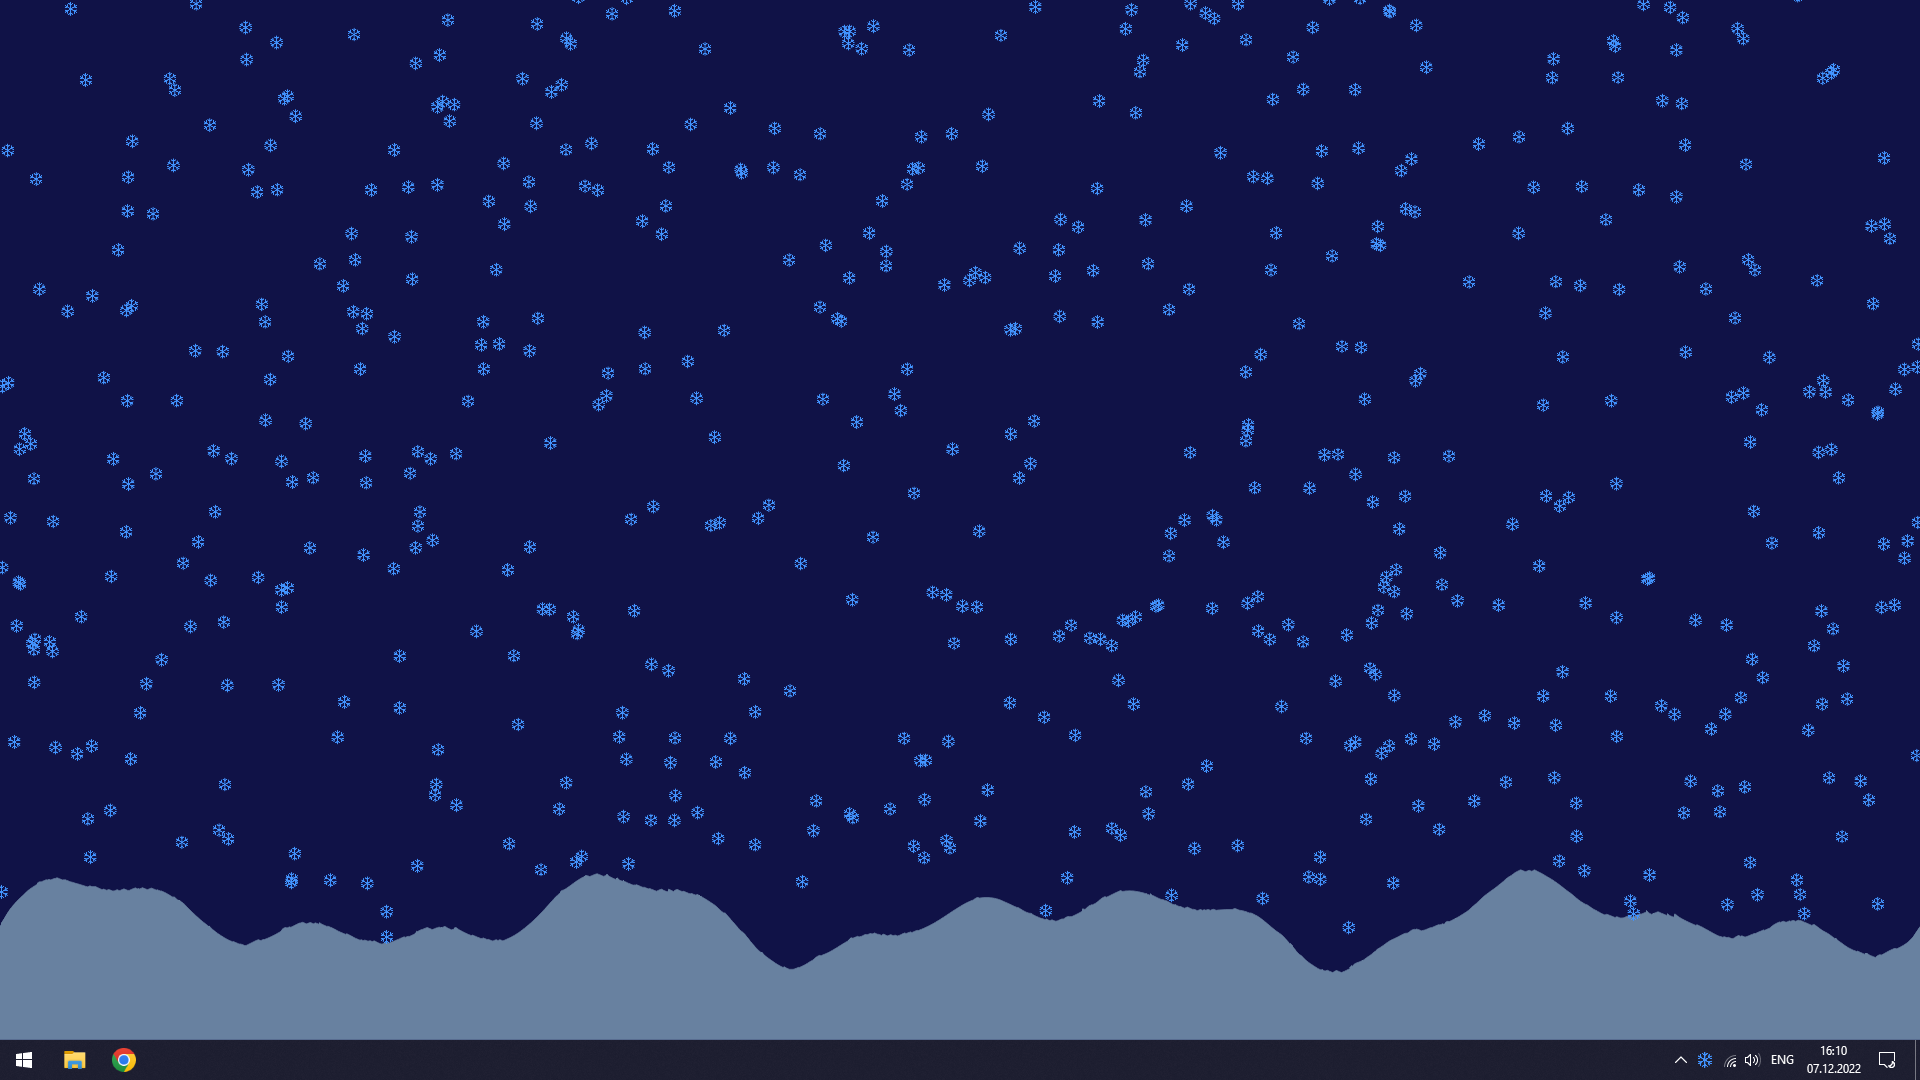
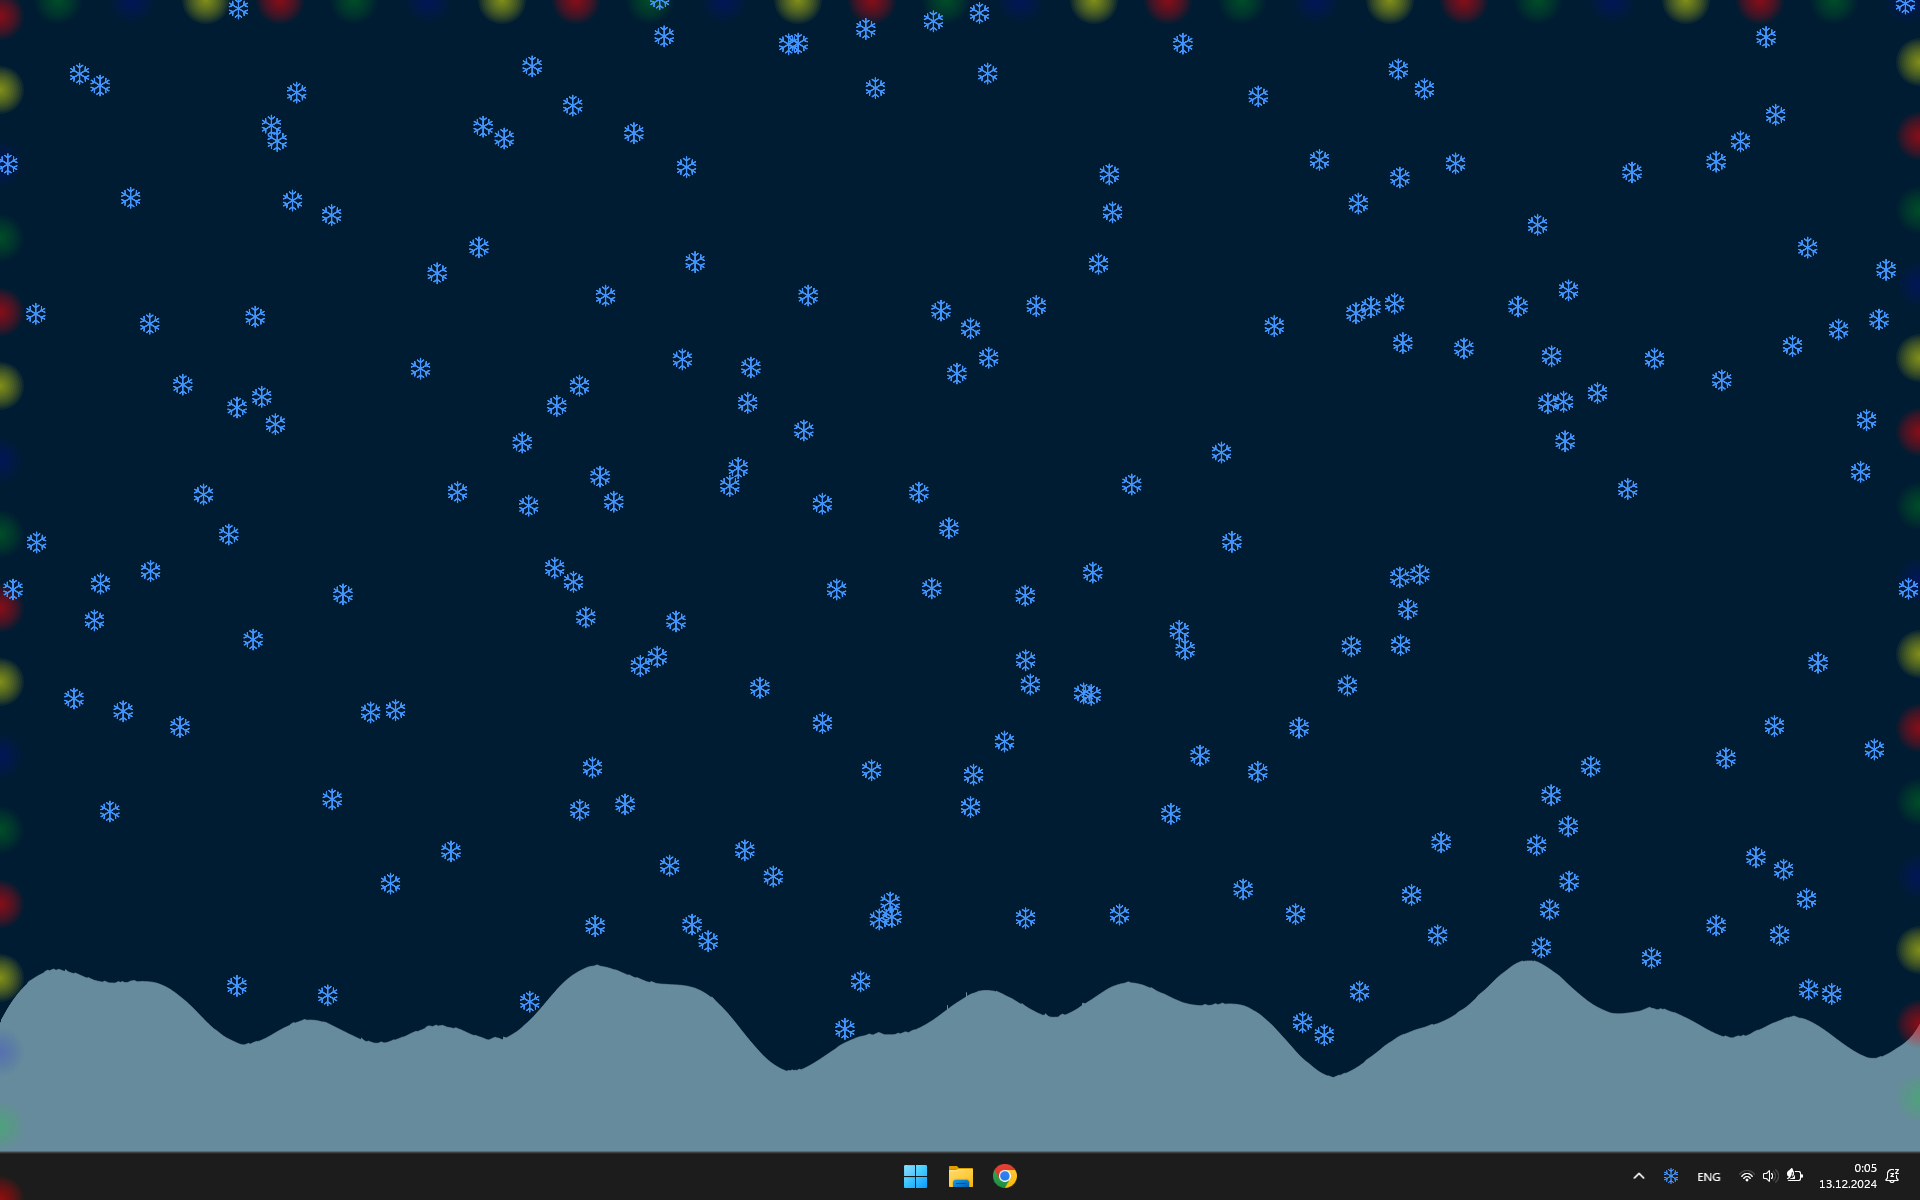
update docs

diff --git a/README.md b/README.md
@@ -11,6 +11,8 @@
 
 Для снежинок можно выбрать любую картинку.
 
+По краям экрана мигает гирлянда, есть 5 режимов. (Можно отключить)
+
 Можно выделить область, где не будет видно снежинок.
 * ЛКМ по иконке -> Выделение области
 * Двойной ЛКМ по иконке -> Очистить область
